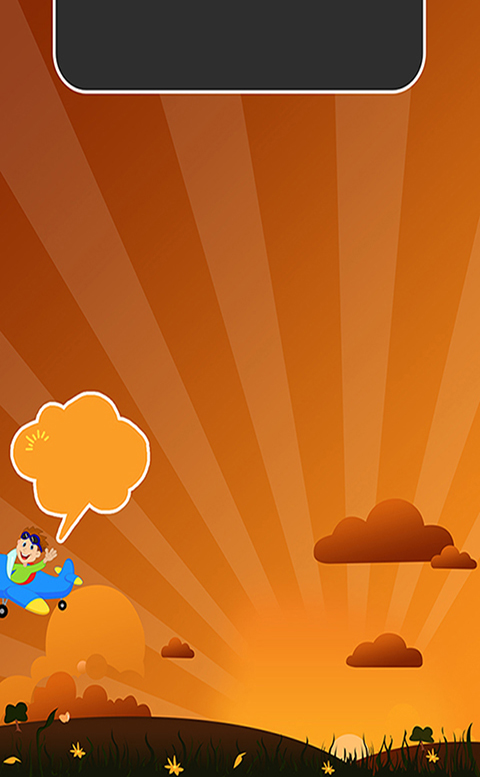
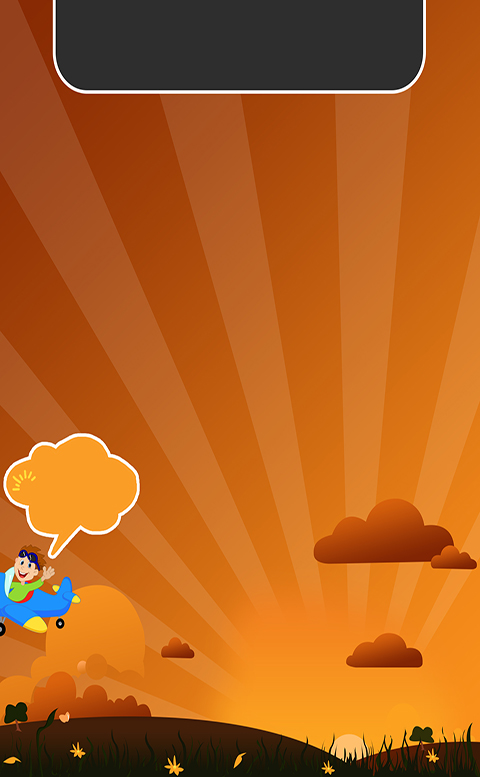
2- css update5 10 10

diff --git a/www/css/style.css b/www/css/style.css
@@ -174,7 +174,7 @@ header{
 }
 .user-name{
     height: 85px;
-    left: 78px;
+    left: 4%;
     position: absolute;
     text-align: center;
     color: rgb(32,114,255);
@@ -223,8 +223,8 @@ header{
 }
 .code-btn-cancel {
 	position: absolute;
-	bottom: 95px;
-	left: 10px;
+	bottom: 2%;
+	left: 2%;
 	background-color: #92D933;
 	background-image: url("../images/back-icon.png");
 	border: medium solid;
@@ -312,14 +312,14 @@ header{
 #login{
     display:none;
     position: absolute;
-    top: 65px;
-    left: 35px;
+    top: 10%;
+    left: 9%;
 }
 
 #launch {
     position: absolute;
-    top: 45px;
-    left: 62px;
+    top: 15%;
+    left: 28%;
 }
 
 .pic_upload{
@@ -331,7 +331,7 @@ header{
     inset #fff 0 0 0 5px;
     position: absolute;
     top: 115px;
-    left: 125px;
+    left: 26%;
 /*     padding: 100px;*/
      overflow: hidden;
 }
@@ -339,10 +339,10 @@ header{
 #my_image{
 /*    display: block;*/
     width: auto;
-    height: 234px;
+    height: 217px;
     position: absolute;
-    top: 5px;
-    left: 50px;
+    top: 2%;
+    left: 4%;
 }
 
 #home-div{
@@ -355,11 +355,11 @@ header{
 
 .welcome-message{
     font-family: HelveticaNeue-Light;
-    font-size: 15px;
+    font-size: 14px;
     position: absolute;
     color: rgb(240,35,30);
-    top: 684px;
-    left: 205px;
+    top: 515px;
+    left: 160px;
 }
 
 .send-email{
@@ -372,31 +372,36 @@ header{
 .time{
     font-family: HelveticaNeue-Light;
     font-size: 60px;
-    position: absolute;
+/*    position: absolute;*/
     color: rgb(240,35,30);
-    top: 480px;
-    left: 152px;
+/*    top: 385px;
+    left: 105px;*/
+    width: 225px;
+    margin: 0 auto;
 }
 
 .check-text{
     font-family: HelveticaNeue-Light;
     font-size: 45px;
-    position: absolute;
-    top: 430px;
-    left: 100px;
+/*    position: absolute;
+    top: 340px;
+    left: 65px;*/
+    width: 400px;
+    margin: 0% auto;
+    padding-top: 72%;
 }
 
 .btn-holder2{
     display: none;
     position: absolute;
-    top: 295px;
-    left: 132px;
+    top: 38%;
+    left: 28%;
 }
 
 #snap-text{
     position: absolute;
-    top: 270px;
-    left: 15px;
+    top: 35%;
+    left: 3%;
     width: 100%;
 }
 
@@ -413,8 +418,8 @@ header{
     width: 350px;
     height: 350px;
     margin: 20px auto 0 auto;
-    top: 300px;
-    left: 65px;
+    top: 40%;
+    left: 15%;
     background: url(../images/clock.png);
     list-style: none;
     }

diff --git a/www/home.html b/www/home.html
@@ -47,7 +47,7 @@
             }
             else if (current == checkStatus || current > checkStatus){
                 $('#background').attr('src','images/background-4.1.jpg');
-                $('.welcome-message').css({'left':'46px','top':'570px'});
+                $('.welcome-message').css({'left':'25px','top':'470px'});
                 $('.time').css({'color':'#fff'});
                 
             }
@@ -81,7 +81,7 @@
                 }
             picurl = window.localStorage.getItem("offlinepic");
             console.log("CheckIn: " + checkin);
-            $('#my_image').css({'left':'50px'});
+            $('#my_image').css({'left':'4%'});
             $('#my_image').attr('src',picurl);
             
             var currentDate = new Date();

diff --git a/www/picUpload.html b/www/picUpload.html
@@ -64,12 +64,12 @@
 
                 if (current < checkStatus){
                     $('#background').attr('src','images/background-3.jpg');
-                    $('.pic_upload').css({'top':'110px'});
+                    $('.pic_upload').css({'top':'14%'});
                 }
                 else if (current == checkStatus || current > checkStatus){
                     $('#background').attr('src','images/background-3.1.jpg');
                     $('.pic-text').css({'color':'#fff'});
-                    $('.pic_upload').css({'top':'110px'});
+                    $('.pic_upload').css({'top':'14%'});
                 }
                
                 function onBackKeyDown() {

diff --git a/www/js/attendance.js b/www/js/attendance.js
@@ -727,7 +727,7 @@ var table = '<table style="border:1px solid #000;text-align: center;border-colla
         
         //Upload Current Record to Parse
         var uploadParsePic = function(url){
-            console.log("Commit: Css update 4/redirect1.")
+            console.log("Commit: Css update 5.")
             var currentDate = new Date();
             var currentTime = (currentDate.toDateString()+', '+ currentDate.getHours() + ':' + currentDate.getMinutes()).toString();
             
